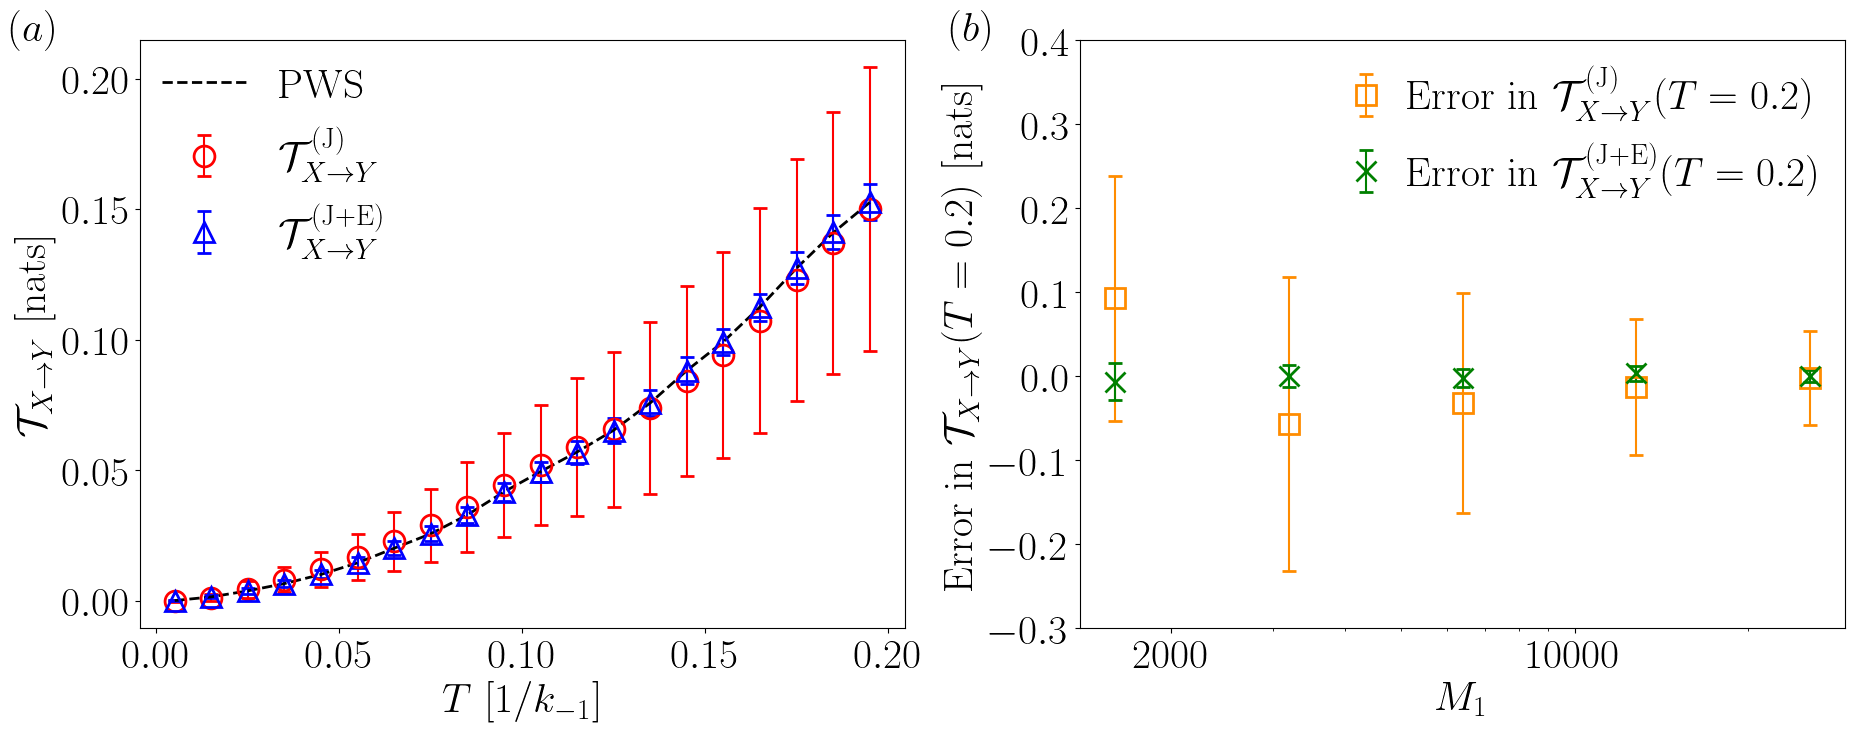
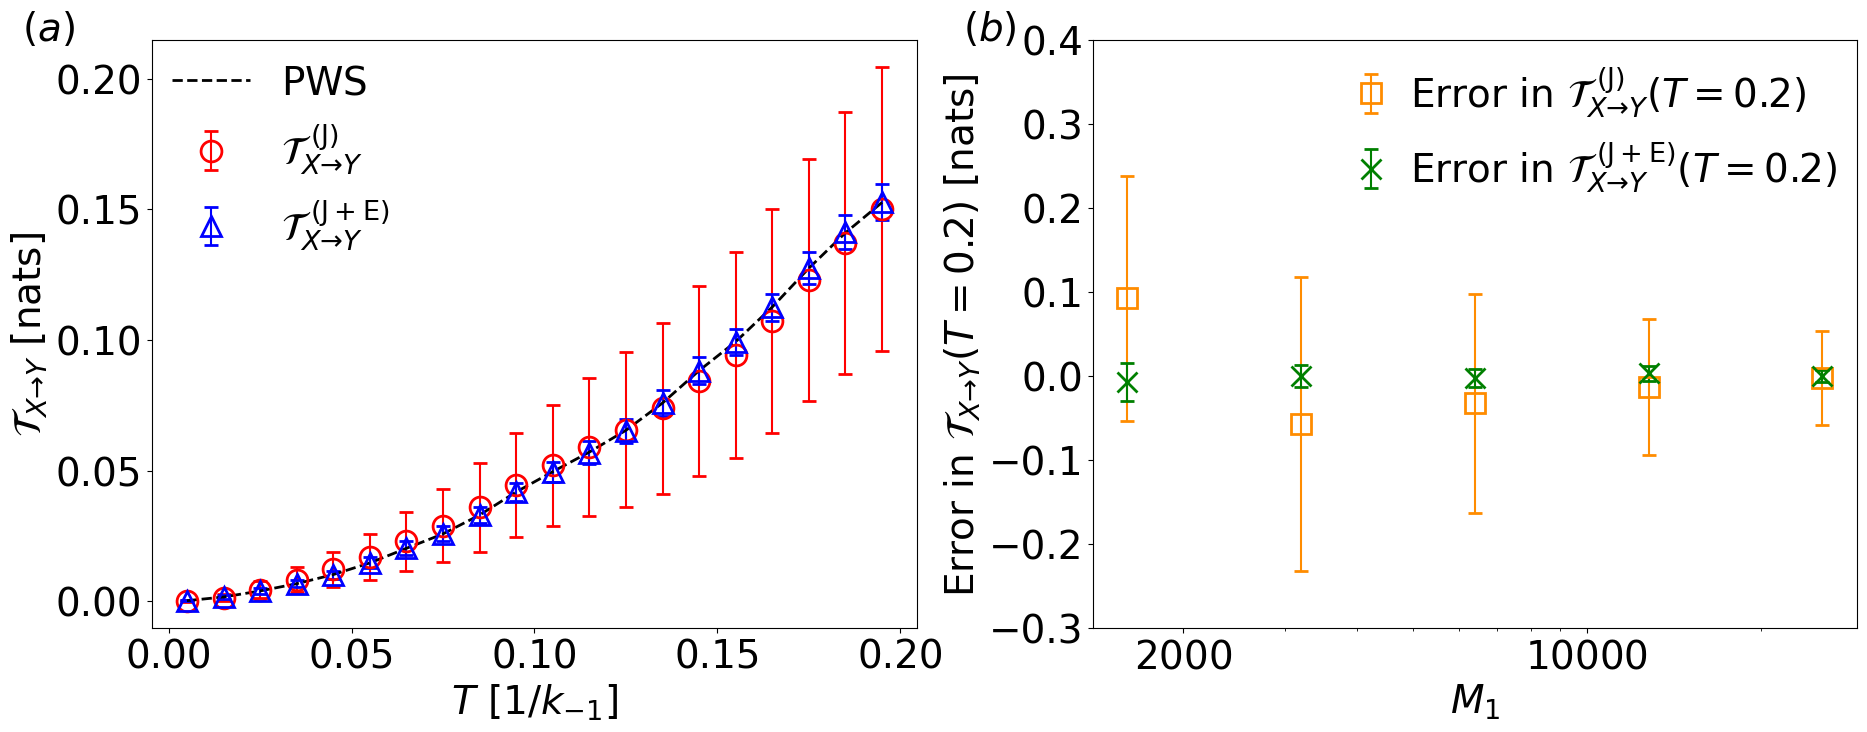
Add files via upload

diff --git a/figures/smfig1/plot_jump3.py b/figures/smfig1/plot_jump3.py
@@ -19,8 +19,10 @@ from numba import jit
 from io import StringIO
 import os.path
 
-plt.rc('font', size = 30)
-plt.rc('text', usetex=True)
+plt.rc('font', size = 28)
+#plt.rc('text', usetex=True)
+plt.rc('mathtext',rm='dejavusans')
+plt.rc('mathtext',fontset='dejavusans')
 
 fig = plt.figure(figsize = (22, 7))
 gs= fig.add_gridspec(1,2,top=0.95,hspace=0.,wspace=0.23)
@@ -60,8 +62,8 @@ Twme[:,1]=2*(np.var(Twvalsxy[:cnt],axis=0)/cnt)**0.5
 
 gtruth=Ime[-1,0]
 
-ax00.errorbar(ttot[::MM],Tme[::MM,0],yerr=Tme[::MM,1],marker='o',color='r',ms=15,fillstyle='none',mew=2,linestyle='None',capsize=5,label=r'$\mathcal{T}_{X\to Y}^{(\mathrm{J})}$')
-ax00.errorbar(ttot[::MM],Twme[::MM,0],yerr=Twme[::MM,1],marker='^',color='b',ms=15,fillstyle='none',mew=2,linestyle='None',capsize=5,label=r'$\mathcal{T}_{X\to Y}^{(\mathrm{J}+\mathrm{E})}$')
+ax00.errorbar(ttot[::MM],Tme[::MM,0],yerr=Tme[::MM,1],marker='o',color='r',ms=15,fillstyle='none',mew=2,linestyle='None',capsize=5,label=r'$\mathcal{T}_{X\to Y}^{~(\mathrm{J})}$')
+ax00.errorbar(ttot[::MM],Twme[::MM,0],yerr=Twme[::MM,1],marker='^',color='b',ms=15,fillstyle='none',mew=2,linestyle='None',capsize=5,label=r'$\mathcal{T}_{X\to Y}^{~(\mathrm{J}+\mathrm{E})}$')
 ax00.plot(ttot[::MM],Ime[::MM,0],marker='None',color='k',ms=10,fillstyle='none',mew=2.5,linestyle='--',lw=2,label=r'$\mathrm{PWS}$')
 
 ax00.set_xlabel(r'$T~[1/k_{-1}]$')
@@ -80,8 +82,8 @@ for p in range(P):
     Twmes[p,1]=2.*(np.var((Twvalsxy[:cnt,-1]-gtruth))/cnt)**0.5
 
 Ns*=160
-ax01.errorbar(Ns,Tmes[:,0],yerr=Tmes[:,1],marker='s',color='darkorange',ms=15,fillstyle='none',mew=2,linestyle='None',capsize=5,label=r'$\mathrm{Error~in~}\mathcal{T}_{X\to Y}^{(\mathrm{J})}(T=0.2)$')
-ax01.errorbar(Ns,Twmes[:,0],yerr=Twmes[:,1],marker='x',color='green',ms=15,fillstyle='none',mew=2,linestyle='None',capsize=5,label=r'$\mathrm{Error~in~}\mathcal{T}_{X\to Y}^{(\mathrm{J}+\mathrm{E})}(T=0.2)$')
+ax01.errorbar(Ns,Tmes[:,0],yerr=Tmes[:,1],marker='s',color='darkorange',ms=15,fillstyle='none',mew=2,linestyle='None',capsize=5,label=r'$\mathrm{Error~in~}\mathcal{T}_{X\to Y}^{~(\mathrm{J})}(T=0.2)$')
+ax01.errorbar(Ns,Twmes[:,0],yerr=Twmes[:,1],marker='x',color='green',ms=15,fillstyle='none',mew=2,linestyle='None',capsize=5,label=r'$\mathrm{Error~in~}\mathcal{T}_{X\to Y}^{~(\mathrm{J}+\mathrm{E})}(T=0.2)$')
 ax01.set_xlabel(r'$M_{1}$')
 ax01.set_ylabel(r'$\mathrm{Error~in~}\mathcal{T}_{X\to Y}(T=0.2)~[\mathrm{nats}]$')
 ax01.set_xscale('log')
